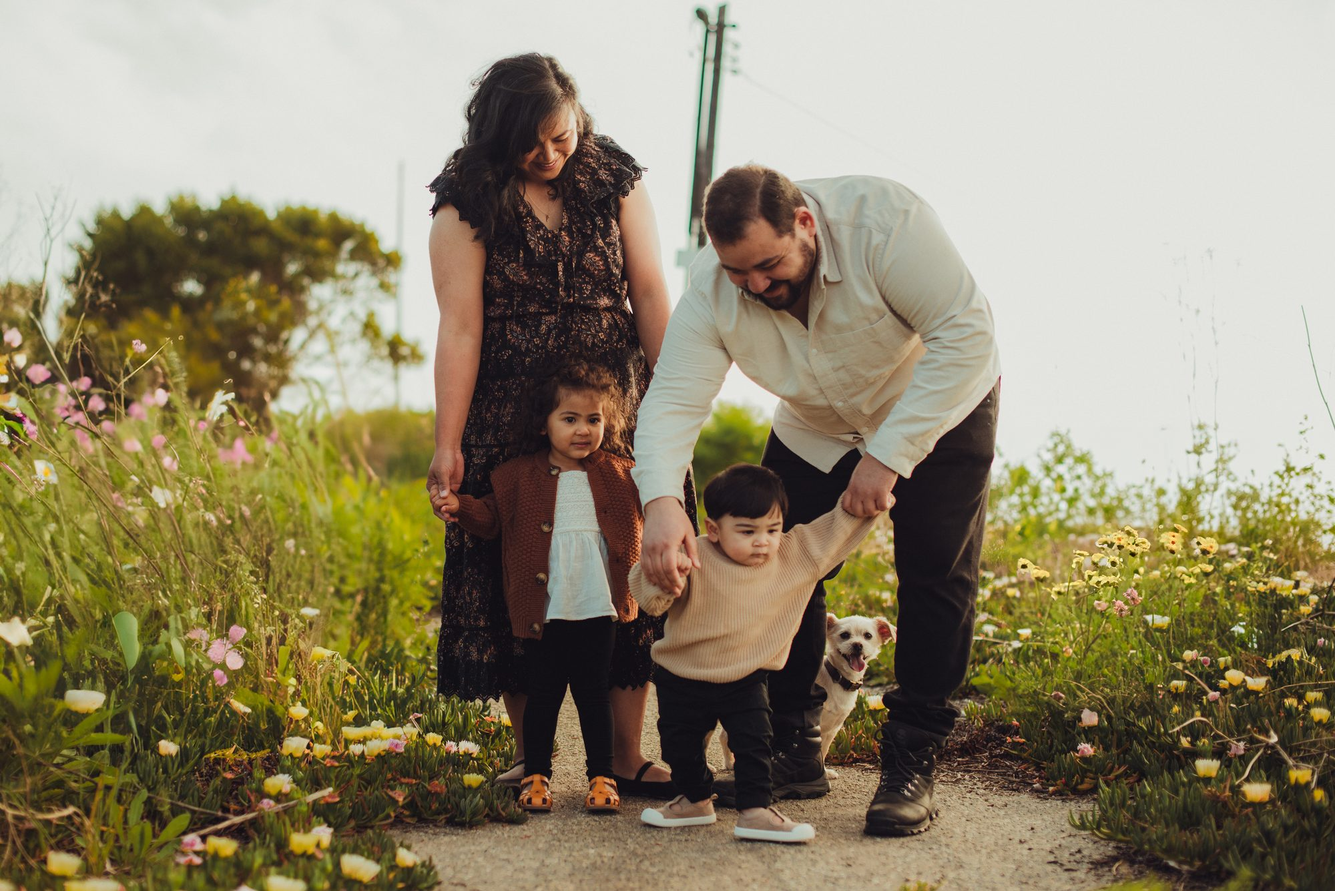
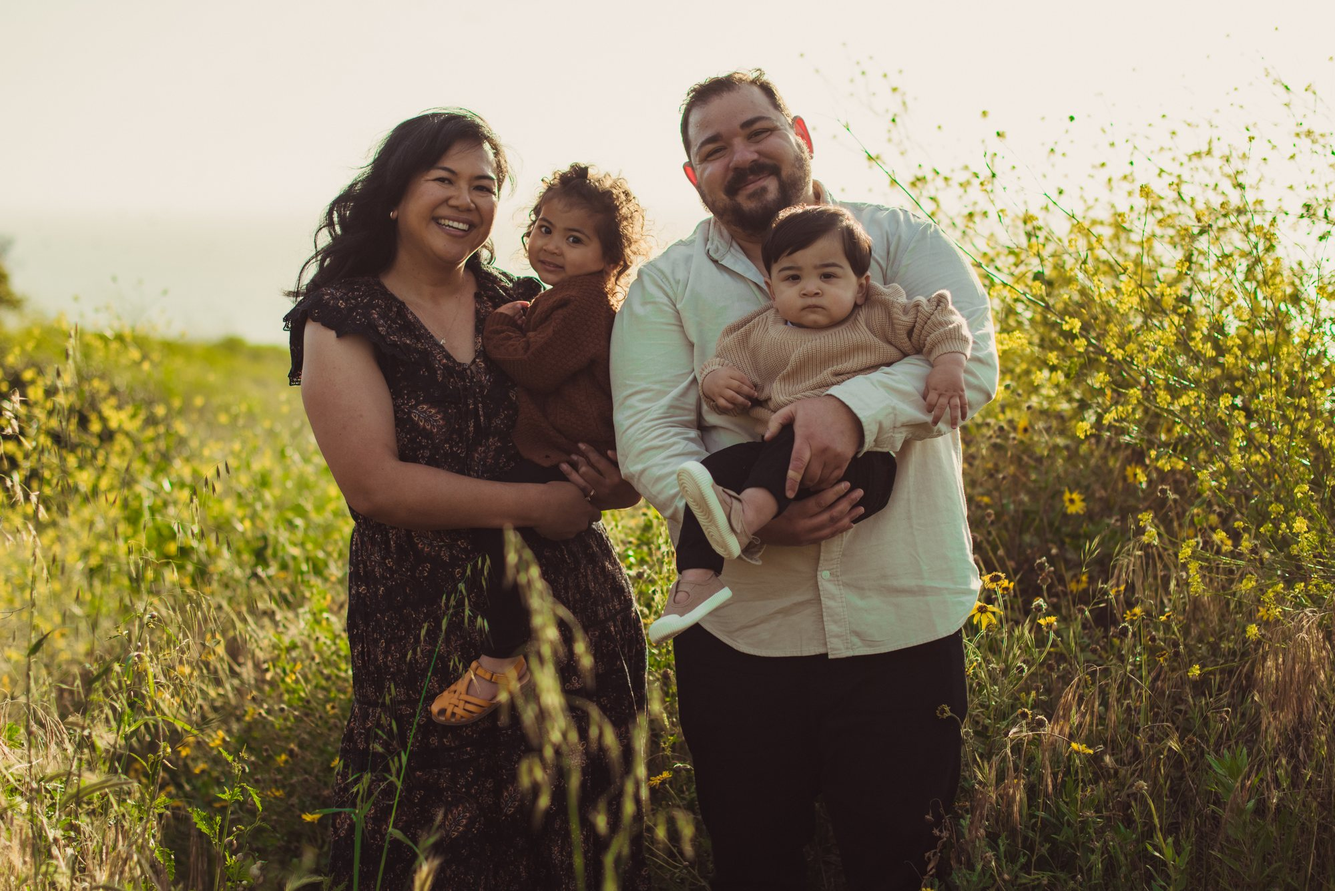
Family page: Rosa row to top of gallery, swap Fadul group shot
- Move the new Rosa photos (pc-18 + pc-19) to the top of the editorial gallery
- Replace the Fadul group shot (family-pc-10) with DSC_7421, a posed
  family-of-four portrait; update alt (no dog in the new frame). Affects both
  the hero slide and the gallery tile.

diff --git a/app/family-photography/page.js b/app/family-photography/page.js
@@ -72,7 +72,7 @@ export default function FamilyPhotography() {
         title={<>Family portraits that<br />feel like home</>}
         slides={[
           { src: '/images/family-pc-17.jpg', alt: 'Family nuzzling their baby in a tender embrace, black and white' },
-          { src: '/images/family-pc-10.jpg', alt: 'Family of four with their dog in a wildflower field' },
+          { src: '/images/family-pc-10.jpg', alt: 'Family of four together in a wildflower field at golden hour' },
           { src: '/images/family-pc-8.jpg',  alt: 'Father lifting his baby in a golden wildflower field' },
           { src: '/images/family-pc-13.jpg', alt: 'Family with their dog and young son outdoors in Los Angeles' },
         ]}
@@ -96,6 +96,10 @@ export default function FamilyPhotography() {
       <section className="wrap" style={{ paddingBottom: '110px' }}>
         {/* Editorial rows: every image at its native aspect ratio, zero cropping. */}
         <div className="edrow reveal">
+          <NativeFrame src="/images/family-pc-18.jpg" alt="Mother and daughter on a garden path" w={1333} h={2000} drift={14} style={{ flex: '0.667 1 0%' }} />
+          <NativeFrame src="/images/family-pc-19.jpg" alt="Family of four relaxing on a blanket in a Los Angeles garden" w={2000} h={1333} drift={12} style={{ flex: '1.5 1 0%' }} />
+        </div>
+        <div className="edrow reveal">
           <NativeFrame src="/images/family-pc-7.jpg" alt="Mother and child walking a wildflower path at golden hour" w={2000} h={1461} drift={14} style={{ flex: '1.369 1 0%' }} />
           <LivingTile
             aspect="3 / 2"
@@ -103,7 +107,7 @@ export default function FamilyPhotography() {
             sizes="(max-width: 760px) 100vw, 55vw"
             delay={0}
             slides={[
-              { src: '/images/family-pc-10.jpg', alt: 'Family of four with their dog in a wildflower field' },
+              { src: '/images/family-pc-10.jpg', alt: 'Family of four together in a wildflower field at golden hour' },
               { src: '/images/family-pc-13.jpg', alt: 'Family with their dog and young son outdoors' },
             ]}
           />
@@ -150,10 +154,6 @@ export default function FamilyPhotography() {
               { src: '/images/family-pc-8.jpg', alt: 'Father lifting his baby in a golden wildflower field' },
             ]}
           />
-        </div>
-        <div className="edrow reveal">
-          <NativeFrame src="/images/family-pc-18.jpg" alt="Mother and daughter on a garden path" w={1333} h={2000} drift={14} style={{ flex: '0.667 1 0%' }} />
-          <NativeFrame src="/images/family-pc-19.jpg" alt="Family of four relaxing on a blanket in a Los Angeles garden" w={2000} h={1333} drift={12} style={{ flex: '1.5 1 0%' }} />
         </div>
       </section>
 
